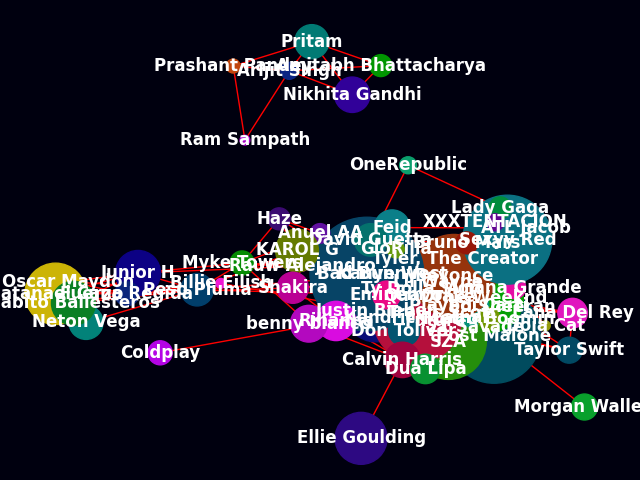
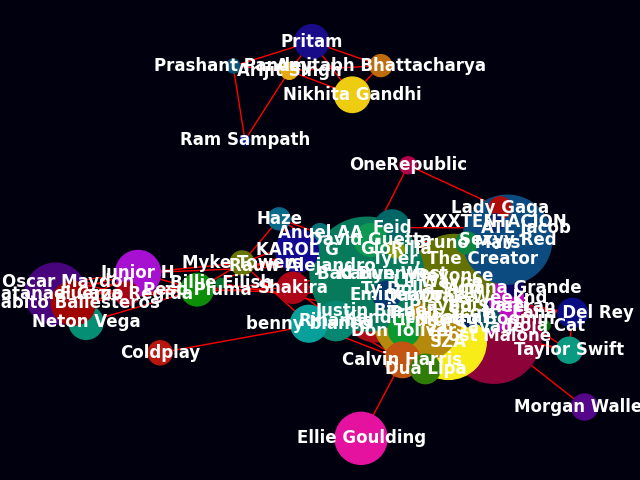
Finish project

diff --git a/fetch_api_data.py b/fetch_api_data.py
@@ -12,7 +12,19 @@ load_dotenv()
 BASE_URL = "https://api.spotify.com/v1"
 session = requests.Session()
 
+
 def spotify_get(url, headers, max_retries=3):
+    """
+    Sends a GET request to the given Spotify API URL with retry handling for rate limits and server errors.
+
+    Args:
+        url (str): The full Spotify API endpoint.
+        headers (dict): Authorization headers containing the access token.
+        max_retries (int): Maximum number of retries for failed requests.
+
+    Returns:
+        dict: Parsed JSON response from the API or an empty dictionary on failure.
+    """
     for _ in range(max_retries):
         response = session.get(url, headers=headers)
 
@@ -20,12 +32,12 @@ def spotify_get(url, headers, max_retries=3):
             retry_after = int(response.headers.get("Retry-After", "10"))
             print(f"Rate limited. Retrying in {retry_after} seconds...")
             time.sleep(retry_after)
-     
+
         elif response.status_code >= 500:
             print(
                 f"Server error {response.status_code}. Retrying in 5 seconds...")
             time.sleep(5)
-          
+
         elif response.ok:
             return response.json()
         else:
@@ -35,6 +47,16 @@ def spotify_get(url, headers, max_retries=3):
 
 
 def get_top_artists(token, playlist_id):
+    """
+    Retrieves the unique artists from a given Spotify playlist.
+
+    Args:
+        token (str): Spotify API access token.
+        playlist_id (str): Spotify playlist ID.
+
+    Returns:
+        dict: Dictionary mapping artist IDs to artist names.
+    """
     top_artists = {}
     url = f"{BASE_URL}/playlists/{playlist_id}?market=US&fields=tracks.items(track(artists(id,name)))"
     headers = get_auth_header(token)
@@ -44,12 +66,23 @@ def get_top_artists(token, playlist_id):
         for artist in item["track"]["artists"]:
             if artist["name"] != "¥$":
                 top_artists[artist["id"]] = artist["name"]
-    
+
     top_artists["6vWDO969PvNqNYHIOW5v0m"] = "Beyonce"
     return dict(top_artists.items())
 
 
 def get_artist_albums(token, artist_id):
+    """
+    Fetches all albums for a given artist and sorts them in descending order
+    by album name and release date.
+
+    Args:
+        token (str): Spotify API access token.
+        artist_id (str): Spotify artist ID.
+
+    Returns:
+        OrderedDict: Albums sorted by (name, release_date), in reverse order.
+    """
     albums = {}
     url = f"{BASE_URL}/artists/{artist_id}/albums?market=US"
     headers = get_auth_header(token)
@@ -62,6 +95,20 @@ def get_artist_albums(token, artist_id):
 
 
 def get_artist_collaborations(token, album_id, album_artist, artist_collaborations, top_artists):
+    """
+    Updates the artist_collaborations dictionary with collaboration counts
+    based on the tracks of a given album.
+
+    Args:
+        token (str): Spotify API access token.
+        album_id (str): Spotify album ID.
+        album_artist (str): Name of the album's main artist.
+        artist_collaborations (dict): Dictionary of current collaboration counts.
+        top_artists (dict): Dictionary of top artist IDs and names.
+
+    Returns:
+        dict: Updated dictionary of collaboration counts.
+    """
     url = f"{BASE_URL}/albums/{album_id}/tracks?market=US"
     headers = get_auth_header(token)
     data = spotify_get(url, headers)
@@ -79,6 +126,16 @@ def get_artist_collaborations(token, album_id, album_artist, artist_collaboratio
 
 
 def clean_album_names(albums):
+    """
+    Cleans album data by keeping only the latest version of each album
+    (based on the base name) to avoid duplicates.
+
+    Args:
+        albums (dict): Dictionary mapping album IDs to tuples of (name, release_date).
+
+    Returns:
+        dict: Dictionary of latest albums with unique base names.
+    """
     latest = {}
     for album_id, (name, date) in albums.items():
         base = name.split(" (")[0]
@@ -109,6 +166,19 @@ def clean_album_names(albums):
 
 
 def fetch_api_data():
+    """
+    Main function that coordinates data extraction from Spotify API:
+    - Retrieves top artists from a playlist.
+    - Saves the top artist data to a JSON file.
+    - Retrieves and cleans each artist’s albums.
+    - Extracts artist collaborations from album tracks.
+    - Saves raw collaboration data to a JSON file.
+
+    Outputs:
+        Writes two JSON files to the 'Spotify_API_data/' directory:
+            - top_artists.json
+            - raw_artists_colab_data.json
+    """
     token = get_token()
     playlist_id = os.getenv("PLAYLIST_ID")
     top_artists = get_top_artists(token, playlist_id)
@@ -146,5 +216,5 @@ def fetch_api_data():
             json.dump(collaboration_data, f, indent=2)
 
         time.sleep(1)
-    
+
     print("Finished fetching raw data from Spotify API\n")

diff --git a/project.py b/project.py
@@ -11,8 +11,10 @@ fig = plt.figure()
 
 def get_top_artists_with_colabs():
     """
-    returns a list of artist_names in cleaned_artists_colab_data.json
-        - this is all artists who were authors of tracks with collaborations
+    Extracts a list of artist names from the cleaned Spotify collaboration data.
+
+    Returns:
+        list: A list of artist names who have at least one collaboration.
     """
     top_artists = []
     with open("Spotify_API_data/cleaned_artists_colab_data.json", "r") as file:
@@ -24,7 +26,10 @@ def get_top_artists_with_colabs():
 
 def generate_random_colors():
     """
-    returns a color map with 61 random colors - one for each node
+    Generates a list of 61 unique random colors for coloring graph nodes.
+
+    Returns:
+        list: A list of 61 hex color codes.
     """
     color_map = []
     init_color = rc.RandomColor()
@@ -41,7 +46,14 @@ def generate_random_colors():
 
 def generate_graph():
     """
-    generates a graph and CSV of the data from the Spotify API
+    Constructs a NetworkX graph from cleaned Spotify collaboration data,
+    where each node represents an artist and each edge represents a collaboration.
+    Also saves a PNG image of the graph.
+
+    Returns:
+        tuple: A tuple containing:
+            - G (networkx.Graph): The generated graph object.
+            - artist_num_colabs (dict): A dictionary mapping each artist to their total number of collaborations.
     """
     G = nx.Graph()
     with open("Spotify_API_data/cleaned_artists_colab_data.json", 'r') as file:
@@ -82,7 +94,11 @@ def generate_graph():
 
 def write_graph_data_to_csv(degree_centrality, artist_num_colabs):
     """
-    Writes network analysis data/results to a CSV
+    Writes network analysis results, including degree centrality and number of collaborations, to a CSV file.
+
+    Args:
+        degree_centrality (dict): Dictionary of degree centrality values for each artist.
+        artist_num_colabs (dict): Dictionary of the number of collaborations per artist.
     """
     # combine 2 dictionaries
     combined_dict = {}
@@ -101,12 +117,24 @@ def write_graph_data_to_csv(degree_centrality, artist_num_colabs):
         for key, value in combined_dict.items():
             writer.writerow({"Artist": key, "Degree Centrality": value[0], "Number of Collaborations": value[1]})\
                 
-def perform_network_analysis():        
+def perform_network_analysis():  
+    """
+    Executes the network analysis pipeline:
+    - Generates a graph from cleaned data
+    - Computes degree centrality
+    - Writes results to a CSV file
+    """
     network_graph, artist_num_colabs = generate_graph()
     degree_centrality = nx.degree_centrality(network_graph)
     write_graph_data_to_csv(degree_centrality, artist_num_colabs)
 
 def main():
+    """
+    Entry point for the script. Executes the full data pipeline:
+    - Fetches Spotify API data
+    - Cleans the raw data
+    - Performs network analysis and saves outputs
+    """
     fetch_api_data()
     clean_json_files()
     perform_network_analysis()

diff --git a/auth.py b/auth.py
@@ -1,0 +1,41 @@
+from dotenv import load_dotenv
+import os
+import base64
+from requests import post
+import json
+
+load_dotenv()
+
+client_id = os.getenv("CLIENT_ID")
+client_secret = os.getenv("CLIENT_SECRET")
+
+
+def get_token():
+    """
+    Constructs the authorization header required for authenticated Spotify API requests.
+
+    Args:
+        token (str): A valid Spotify access token.
+
+    Returns:
+        dict: A dictionary with the 'Authorization' header set.
+    """
+    auth_string = client_id + ":" + client_secret
+    auth_bytes = auth_string.encode("utf-8")
+    auth_base64 = str(base64.b64encode(auth_bytes), "utf-8")
+
+    url = "https://accounts.spotify.com/api/token"
+    headers = {
+        "Authorization": "Basic " + auth_base64,
+        "Content-Type": "application/x-www-form-urlencoded"
+    }
+
+    data = {"grant_type": "client_credentials"}
+    result = post(url, headers=headers, data=data)
+    json_result = json.loads(result.content)
+    token = json_result["access_token"]
+    return token
+
+
+def get_auth_header(token):
+    return {"Authorization": "Bearer " + token}

diff --git a/clean_json_files.py b/clean_json_files.py
@@ -2,6 +2,18 @@ import json
 
 
 def clean_json_files():
+    """
+    Cleans the raw artist collaboration data retrieved from the Spotify API.
+
+    This function:
+    - Loads data from 'raw_artists_colab_data.json'
+    - Removes the first listed collaboration for Beyoncé (assumed to be incorrect or unwanted)
+    - Excludes any artists that have no recorded collaborations
+    - Saves the cleaned data to 'cleaned_artists_colab_data.json'
+
+    Returns:
+        list: A list of cleaned artist collaboration records.
+    """
     collaborations = []
     with open("./Spotify_API_data/raw_artists_colab_data.json", "r") as file:
         data = json.load(file)

diff --git a/README.md b/README.md
@@ -1,5 +1,80 @@
-<h2>Spotify API Data Processing and Analysis Workflow</h2>
-<p>Extracting, Processing, and Cleaning Spotify API data: <code>extract_process_api_data.py</code></p>
-<p>Combining and Cleaning JSON Files/output from <code>extract_process_api_data.py</code>: 
-<code>clean_combine_json.py</code> </p>
-<p>Generating graph and CSV of graph data: <code>network_analysis.py</code></p>
+# 🎵 Spotify Artist Collaboration Network
+
+This project visualizes and analyzes musical artist collaborations using data from the Spotify Web API. Given a user-defined playlist, the program extracts the top artists, gathers metadata about their albums and featured tracks, and constructs a network graph where each node represents an artist and each edge represents a collaboration. It outputs a visual graph of the collaboration network and a CSV file displaying each artist’s
+[degree centrality](https://networkx.org/documentation/stable/reference/algorithms/generated/networkx.algorithms.centrality.degree_centrality.html) and total number of collaborations with other artists in the playlist. 
+
+The goal of this project is to explore patterns in collaboration behavior between mainstream artists, identify central figures in the network, and practice skills in API usage, data cleaning, network analysis, and visualization. This project was also a way to gain hands-on experience integrating multiple Python modules and structuring a scalable data analysis pipeline.
+
+## 📂 File Overview
+
+### `auth.py`
+
+Handles authentication with the Spotify API using the Client Credentials Flow.
+
+- Loads client credentials (`CLIENT_ID` and `CLIENT_SECRET`) from a `.env` file.
+- `get_token()` encodes credentials and requests an access token.
+- `get_auth_header(token)` generates the proper authorization headers needed for authenticated API calls.
+
+### `fetch_api_data.py`
+
+This script executes the initial data retrieval process:
+
+- Authenticates with the Spotify API.
+- Extracts top artists from a given playlist using `get_top_artists`.
+- Fetches all albums by each artist (`get_artist_albums`), and filters out redundant/duplicate albums using `clean_album_names`.
+- Retrieves all collaborations (i.e., artists featured on each track) via `get_artist_collaborations`.
+- Outputs raw data into `Spotify_API_data/raw_artists_colab_data.json`.
+
+### `clean_json_files.py`
+
+This module processes and filters the raw JSON data for meaningful content:
+
+- Removes the first listed collaboration for Beyoncé, which often contained a self-reference or duplicate.
+- Filters out artists who had no recorded collaborations (to reduce graph clutter).
+- Saves cleaned data to `Spotify_API_data/cleaned_artists_colab_data.json`.
+
+### `perform_network_analysis.py`
+
+This is the central analysis and visualization script. It:
+
+- Loads the cleaned collaboration data.
+- Builds a graph using NetworkX, where artists are nodes and collaborations are edges.
+- Assigns a unique color and size to each node based on their collaboration count.
+- Generates a PNG image of the graph (`Outputs/artists_collaboration_graph.png`).
+- Calculates degree centrality for each artist and writes a CSV file with metrics (`Outputs/network_analysis_results.csv`).
+
+## 🧠 Design Decisions
+
+Several design choices were debated during this project. One was how to handle duplicate albums—Spotify often lists the same album with various editions (e.g., deluxe, remastered). Instead of keeping all versions, I implemented a `clean_album_names` function that retains only the latest version based on release date, simplifying the data without losing relevance.
+
+Another key choice was to use JSON as an intermediate data format between stages. This modular approach separated raw collection, cleaning, and analysis into independent steps, making the project more maintainable and debuggable.
+
+Finally, the use of `randomcolor` for graph node colors was chosen to make the visual output aesthetically distinct and avoid confusion between similarly named artists.
+
+## ✅ Final Outputs
+
+- `Spotify_API_data/top_artists.json`: Top artists extracted from playlist.
+- `Spotify_API_data/raw_artists_colab_data.json`: Raw collaboration data.
+- `Spotify_API_data/cleaned_artists_colab_data.json`: Cleaned version of above.
+- `Outputs/artists_collaboration_graph.png`: Network visualization of collaborations.
+- `Outputs/network_analysis_results.csv`: Degree centrality and collaboration counts.
+
+## 🚀 How to Run
+
+Ensure you have a `.env` file with your Spotify API credentials and a playlist ID (you can obtain credentials by creating a [Spotify Developer account](https://developer.spotify.com/documentation/web-api)):
+
+```
+SPOTIFY_CLIENT_ID=your_id
+SPOTIFY_CLIENT_SECRET=your_secret
+PLAYLIST_ID=your_playlist_id
+```
+
+Then simply run:
+
+```
+python project.py
+```
+
+## 🎥 Video Demo
+For the demo, I will be using [Spotify's Top Artists of 2024 Global](https://open.spotify.com/playlist/37i9dQZF1DX9lzz0FRAxgl) playlist.  
+[![Watch the Demo](https://img.shields.io/badge/Watch%20Video-Demo-red?logo=youtube)](<URL HERE>)
